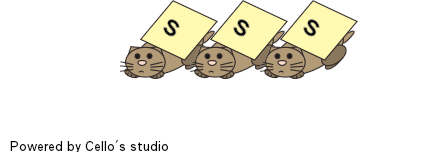
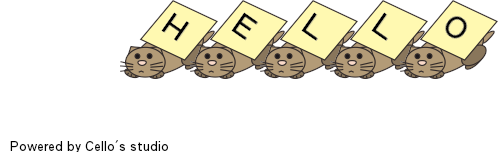
modify index page

Changed region(s): [[0.2364, 0.0, 1.0, 0.5], [0.0, 0.875, 0.3841, 0.9688]]

diff --git a/templates/index.html b/templates/index.html
@@ -2,7 +2,7 @@
 <html>
 <head>
 	<meta http-equiv="Content-Type" content="text/html; charset=UTF-8">
-	<title>Test</title>
+	<title>SmallMan</title>
 	<link rel=stylesheet type=text/css href="{{ url_for('static', filename='style.css') }}">
 	<script type="text/javascript" src="{{ url_for('static', filename='jquery-1.7.2.js') }}"></script>
 	<script type="text/javascript">
@@ -41,6 +41,6 @@
 	<button id="send" onclick="onBtnSend()">Send</button>
 	<br/>
 	<br/>
-	<img id="outimg" style="border-style:solid;"></img>
+	<img id="outimg" src="{{ url_for('static', filename='data/temp.png') }}" style="border-style:solid;"></img>
 </body>
 </html>

diff --git a/SmallMan.py b/SmallMan.py
@@ -67,7 +67,8 @@ def getNewImg():
         catImg = Image.open("static/cat.png")
         print "33333333333333"
 
-        font_path = url_for('static', filename="LIHEI_PROPC_0.ttf")
+        font_path = "./"+url_for('static', filename="LIHEI_PROPC_0.ttf")
+        print font_path
         font = ImageFont.truetype(font_path, wordSize, encoding='unicode')
         print "44444444444444"
         #size = font.getsize(request.json['words'])
@@ -92,7 +93,7 @@ def getNewImg():
 
         # sign cello's studio
         print "5555555555555"
-        font1 = ImageFont.truetype("static/LIHEI_PROPC_0.ttf", 12, encoding='unicode')
+        font1 = ImageFont.truetype(font_path, 12, encoding='unicode')
         txtImg = Image.new('RGBA', (200, 20), (0, 0, 0, 0))
         draw = ImageDraw.Draw(txtImg)
         draw.text((10, 0), "Powered by Cello's studio", font=font1, fill='#000000')
